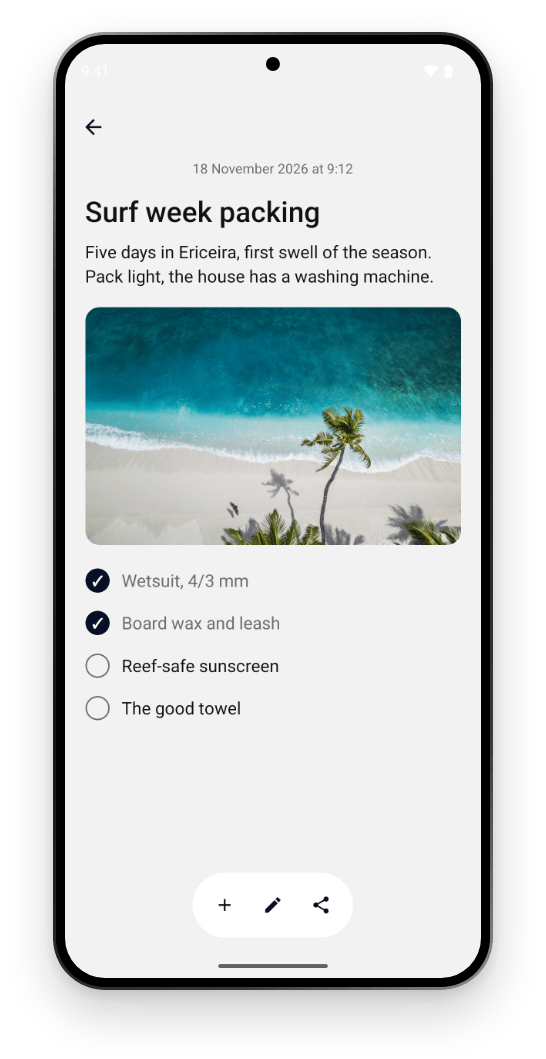
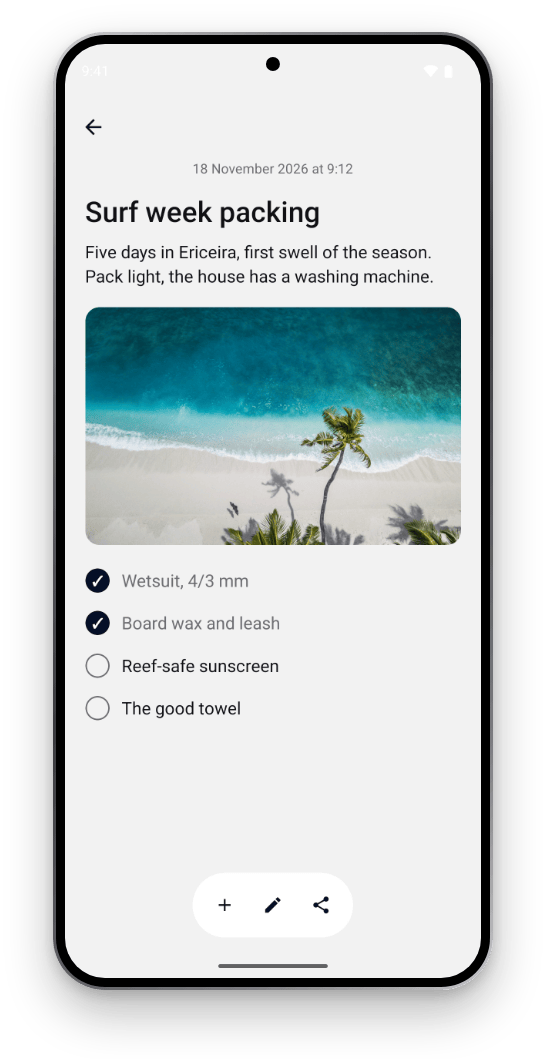
docs(readme): show one image per screenshot, light and dark side by side

Changed region(s): [[0.8407, 0.0312, 0.9029, 0.9348], [0.0934, 0.0623, 0.1868, 0.9348], [0.1245, 0.0312, 0.1557, 0.0623]]

diff --git a/scripts/screenshots/frame.py b/scripts/screenshots/frame.py
@@ -3,11 +3,10 @@
 
 Usage: frame.py <raw_dir> <out_dir>
 
-<raw_dir>/<platform>-<scene>-<light|dark>.png come from capture.sh. Writes, each in a light
-and a dark version (a darker metal and a soft shadow for light pages, a lighter rim for dark
-ones), on a transparent background:
-  <out_dir>/<platform>-<scene>-<appearance>.png   one framed phone, for the table
-  <out_dir>/hero-<appearance>.png                 HERO's phones side by side, under the intro
+<raw_dir>/<platform>-<scene>-<light|dark>.png come from capture.sh. Writes, on a transparent
+background, with one rim that reads on light and dark pages:
+  <out_dir>/<platform>-<scene>-<appearance>.png   one framed phone per CELLS entry, for the table
+  <out_dir>/hero.png                              HERO's phones side by side, under the intro
 Each page is HTML (CSS frame, camera cutout) rendered by headless Chrome, then pngquant.
 Needs Google Chrome and pngquant.
 """
@@ -20,8 +19,11 @@ from pathlib import Path
 CHROME = '/Applications/Google Chrome.app/Contents/MacOS/Google Chrome'
 
 # What the README shows: the table's cells, and the hero's phones from left to right.
-CELLS = [f'{p}-{s}' for s in ('editor', 'viewer') for p in ('ios26', 'ios18', 'android')]
-HERO = ['ios26-editor', 'android-viewer']
+# Each image is the same for every reader: GitHub swaps <picture> sources by the OS, not by its
+# own theme setting, and npm never swaps. So each slot shows one appearance, and the hero both.
+CELLS = [(f'{p}-editor', 'light') for p in ('ios26', 'ios18', 'android')] + \
+        [(f'{p}-viewer', 'dark') for p in ('ios26', 'ios18', 'android')]
+HERO = [('ios26-editor', 'light'), ('android-viewer', 'dark')]
 
 # Frames, as fractions of the phone's width. iPhone: a metal rim, a black bezel, the Dynamic
 # Island (126 x 37 pt, 11 pt from the top of a 402 pt screen). Pixel 9: a satin rim, a thin
@@ -30,14 +32,9 @@ PHONES = {
     'ios': dict(r=0.172, rim=0.0065, bezel=0.019, cutout='island'),
     'android': dict(r=0.118, rim=0.0075, bezel=0.021, cutout='hole'),
 }
-METAL = {
-    'light': 'linear-gradient(135deg,#a9a9ae 0%,#3a3a3e 18%,#141416 50%,#3a3a3e 82%,#8e8e93 100%)',
-    'dark': 'linear-gradient(135deg,#e4e4e8 0%,#8a8a90 18%,#55555a 50%,#8a8a90 82%,#d2d2d7 100%)',
-}
-SHADOW = {
-    'light': '0 {a}px {b}px rgba(11,11,15,.20),0 {c}px {d}px rgba(11,11,15,.10)',
-    'dark': '0 {a}px {b}px rgba(0,0,0,.55),0 {c}px {d}px rgba(0,0,0,.35)',
-}
+# One rim and shadow that read on GitHub's light and dark pages and on npm.
+METAL = 'linear-gradient(135deg,#d1d1d6 0%,#7c7c82 18%,#3a3a3e 50%,#7c7c82 82%,#c7c7cc 100%)'
+SHADOW = '0 {a}px {b}px rgba(0,0,0,.28),0 {c}px {d}px rgba(0,0,0,.16)'
 
 CELL_W = 440          # table cells show at 220 px
 HERO_PHONE_W = 600    # the hero shows at ~880 px, so phones at ~330 px
@@ -69,7 +66,7 @@ def phone(img, platform, appearance, w, left, top):
     sh = round(sw * ih / iw)
     h = sh + 2 * (rim + bezel)
     r = round(w * p['r'])
-    shadow = SHADOW[appearance].format(a=round(w * .05), b=round(w * .11), c=round(w * .012), d=round(w * .03))
+    shadow = SHADOW.format(a=round(w * .05), b=round(w * .11), c=round(w * .012), d=round(w * .03))
     if p['cutout'] == 'island':
         cw, ch = sw * 126 / 402, sw * 37.3 / 402
         cutout = f'<div class="island" style="top:{sw * 11 / 402:.1f}px;width:{cw:.1f}px;height:{ch:.1f}px;border-radius:{ch / 2:.1f}px"></div>'
@@ -77,7 +74,7 @@ def phone(img, platform, appearance, w, left, top):
         d = sw * 0.034
         cutout = f'<div class="hole" style="top:{sh * 0.0215 - d / 2:.1f}px;width:{d:.1f}px;height:{d:.1f}px;border-radius:50%"></div>'
     html = (f'<div class="frame" style="left:{left}px;top:{top}px;width:{w}px;height:{h}px;border-radius:{r}px;'
-            f'padding:{rim}px;background:{METAL[appearance]};box-shadow:{shadow}">'
+            f'padding:{rim}px;background:{METAL};box-shadow:{shadow}">'
             f'<div class="bezel" style="border-radius:{r - rim}px;padding:{bezel}px">'
             f'<div class="screen" style="border-radius:{r - rim - bezel}px"><img src="{img.resolve().as_uri()}">{cutout}</div>'
             f'</div></div>')
@@ -100,27 +97,25 @@ def render(html, png, width, height):
 
 def main(raw, out):
     out.mkdir(parents=True, exist_ok=True)
-    for appearance in ('light', 'dark'):
-        for cell in CELLS:
-            img = raw / f'{cell}-{appearance}.png'
-            if not img.exists():
-                sys.exit(f'missing capture: {img}')
-            pad = round(CELL_W * PAD)
-            html, h = phone(img, cell.split('-')[0], appearance, CELL_W, pad, round(pad * .6))
-            W, H = CELL_W + 2 * pad, h + round(pad * 1.9)
-            render(PAGE.format(W=W, H=H, phones=html), out / f'{cell}-{appearance}.png', W, H)
-        pad = round(HERO_PHONE_W * PAD)
-        parts, heights = [], []
-        for i, shot in enumerate(HERO):
-            img = raw / f'{shot}-{appearance}.png'
-            html, h = phone(img, shot.split('-')[0], appearance, HERO_PHONE_W,
-                            pad + i * (HERO_PHONE_W + HERO_GAP), round(pad * .6))
-            parts.append(html)
-            heights.append(h)
-        W = 2 * pad + len(HERO) * HERO_PHONE_W + (len(HERO) - 1) * HERO_GAP
-        H = max(heights) + round(pad * 1.9)
-        render(PAGE.format(W=W, H=H, phones=''.join(parts)), out / f'hero-{appearance}.png', W, H)
-
+    for cell, appearance in CELLS:
+        img = raw / f'{cell}-{appearance}.png'
+        if not img.exists():
+            sys.exit(f'missing capture: {img}')
+        pad = round(CELL_W * PAD)
+        html, h = phone(img, cell.split('-')[0], appearance, CELL_W, pad, round(pad * .6))
+        W, H = CELL_W + 2 * pad, h + round(pad * 1.9)
+        render(PAGE.format(W=W, H=H, phones=html), out / f'{cell}-{appearance}.png', W, H)
+    pad = round(HERO_PHONE_W * PAD)
+    parts, heights = [], []
+    for i, (shot, appearance) in enumerate(HERO):
+        img = raw / f'{shot}-{appearance}.png'
+        html, h = phone(img, shot.split('-')[0], appearance, HERO_PHONE_W,
+                        pad + i * (HERO_PHONE_W + HERO_GAP), round(pad * .6))
+        parts.append(html)
+        heights.append(h)
+    W = 2 * pad + len(HERO) * HERO_PHONE_W + (len(HERO) - 1) * HERO_GAP
+    H = max(heights) + round(pad * 1.9)
+    render(PAGE.format(W=W, H=H, phones=''.join(parts)), out / 'hero.png', W, H)
 
 if __name__ == '__main__':
     if not shutil.which('pngquant'):

diff --git a/README.md b/README.md
@@ -12,12 +12,12 @@ The platform's own bottom toolbar for React Native screens, drawn by UIKit and M
 - **iOS**: UIKit's navigation-controller toolbar, so you get what the system draws. On iOS 26 that's Liquid Glass (a lone item becomes a glass circle, like the bin in Photos), and earlier versions get the classic toolbar. Your app follows each iOS redesign without changes.
 - **Android**: Material 3 components. One button shows as a FAB; two or more show as the M3 Expressive floating toolbar. Both sit above the navigation bar.
 
-<p align="center"><picture><source media="(prefers-color-scheme: dark)" srcset="docs/images/hero-dark.png"><source media="(prefers-color-scheme: light)" srcset="docs/images/hero-light.png"><img src="docs/images/hero-light.png" width="720" alt="An iPhone showing a note with the iOS 26 glass toolbar, next to an Android phone showing a sunset photo with a Material 3 FAB"></picture></p>
+<p align="center"><img src="docs/images/hero.png" width="720" alt="An iPhone showing a note with the iOS 26 glass toolbar, next to an Android phone in dark mode showing a sunset photo with a Material 3 FAB"></p>
 
-|               | iOS 26                                                                                                                                                                                                                                                                                                                                                                         | iOS 18                                                                                                                                                                                                                                                                                                                                                                     | Android                                                                                                                                                                                                                                                                                                                                                     |
-| ------------- | ------------------------------------------------------------------------------------------------------------------------------------------------------------------------------------------------------------------------------------------------------------------------------------------------------------------------------------------------------------------------------ | -------------------------------------------------------------------------------------------------------------------------------------------------------------------------------------------------------------------------------------------------------------------------------------------------------------------------------------------------------------------------- | ----------------------------------------------------------------------------------------------------------------------------------------------------------------------------------------------------------------------------------------------------------------------------------------------------------------------------------------------------------- |
-| Several items | <picture><source media="(prefers-color-scheme: dark)" srcset="docs/images/ios26-editor-dark.png"><source media="(prefers-color-scheme: light)" srcset="docs/images/ios26-editor-light.png"><img src="docs/images/ios26-editor-light.png" width="220" alt="iOS 26: a note with a glass plus button on the left and pencil and share in a glass capsule on the right"></picture> | <picture><source media="(prefers-color-scheme: dark)" srcset="docs/images/ios18-editor-dark.png"><source media="(prefers-color-scheme: light)" srcset="docs/images/ios18-editor-light.png"><img src="docs/images/ios18-editor-light.png" width="220" alt="iOS 18: the same note with plus on the left and pencil and share on the right of the classic toolbar"></picture> | <picture><source media="(prefers-color-scheme: dark)" srcset="docs/images/android-editor-dark.png"><source media="(prefers-color-scheme: light)" srcset="docs/images/android-editor-light.png"><img src="docs/images/android-editor-light.png" width="220" alt="Android: plus, pencil and share in a Material 3 floating toolbar under the note"></picture> |
-| One item      | <picture><source media="(prefers-color-scheme: dark)" srcset="docs/images/ios26-viewer-dark.png"><source media="(prefers-color-scheme: light)" srcset="docs/images/ios26-viewer-light.png"><img src="docs/images/ios26-viewer-light.png" width="220" alt="iOS 26: a full-screen sunset photo with a bin in a glass circle"></picture>                                          | <picture><source media="(prefers-color-scheme: dark)" srcset="docs/images/ios18-viewer-dark.png"><source media="(prefers-color-scheme: light)" srcset="docs/images/ios18-viewer-light.png"><img src="docs/images/ios18-viewer-light.png" width="220" alt="iOS 18: the same photo with a bin at the trailing edge of the toolbar"></picture>                                | <picture><source media="(prefers-color-scheme: dark)" srcset="docs/images/android-viewer-dark.png"><source media="(prefers-color-scheme: light)" srcset="docs/images/android-viewer-light.png"><img src="docs/images/android-viewer-light.png" width="220" alt="Android: the same photo with a Material 3 FAB holding a bin"></picture>                     |
+|                     | iOS 26                                                                                                                                                                    | iOS 18                                                                                                                                                                | Android                                                                                                                                            |
+| ------------------- | ------------------------------------------------------------------------------------------------------------------------------------------------------------------------- | --------------------------------------------------------------------------------------------------------------------------------------------------------------------- | -------------------------------------------------------------------------------------------------------------------------------------------------- |
+| Several items       | <img src="docs/images/ios26-editor-light.png" width="220" alt="iOS 26: a note with a glass plus button on the left and pencil and share in a glass capsule on the right"> | <img src="docs/images/ios18-editor-light.png" width="220" alt="iOS 18: the same note with plus on the left and pencil and share on the right of the classic toolbar"> | <img src="docs/images/android-editor-light.png" width="220" alt="Android: plus, pencil and share in a Material 3 floating toolbar under the note"> |
+| One item, dark mode | <img src="docs/images/ios26-viewer-dark.png" width="220" alt="iOS 26: a full-screen sunset photo with a bin in a glass circle">                                           | <img src="docs/images/ios18-viewer-dark.png" width="220" alt="iOS 18: the same photo with a bin at the trailing edge of the toolbar">                                 | <img src="docs/images/android-viewer-dark.png" width="220" alt="Android: the same photo with a Material 3 FAB holding a bin">                      |
 
 Photos by [sun Binbin](https://unsplash.com/@leticia_sol?utm_source=27appstudio_showcase&utm_medium=referral) and [Nattu Adnan](https://unsplash.com/@reallynattu?utm_source=27appstudio_showcase&utm_medium=referral) on [Unsplash](https://unsplash.com/?utm_source=27appstudio_showcase&utm_medium=referral). Both screens pass the same `tintColor`, ink in light mode and cream in dark mode. The scenes are in [`example/src/Showcase.tsx`](example/src/Showcase.tsx), captured and framed by [`scripts/screenshots`](scripts/screenshots).
 
